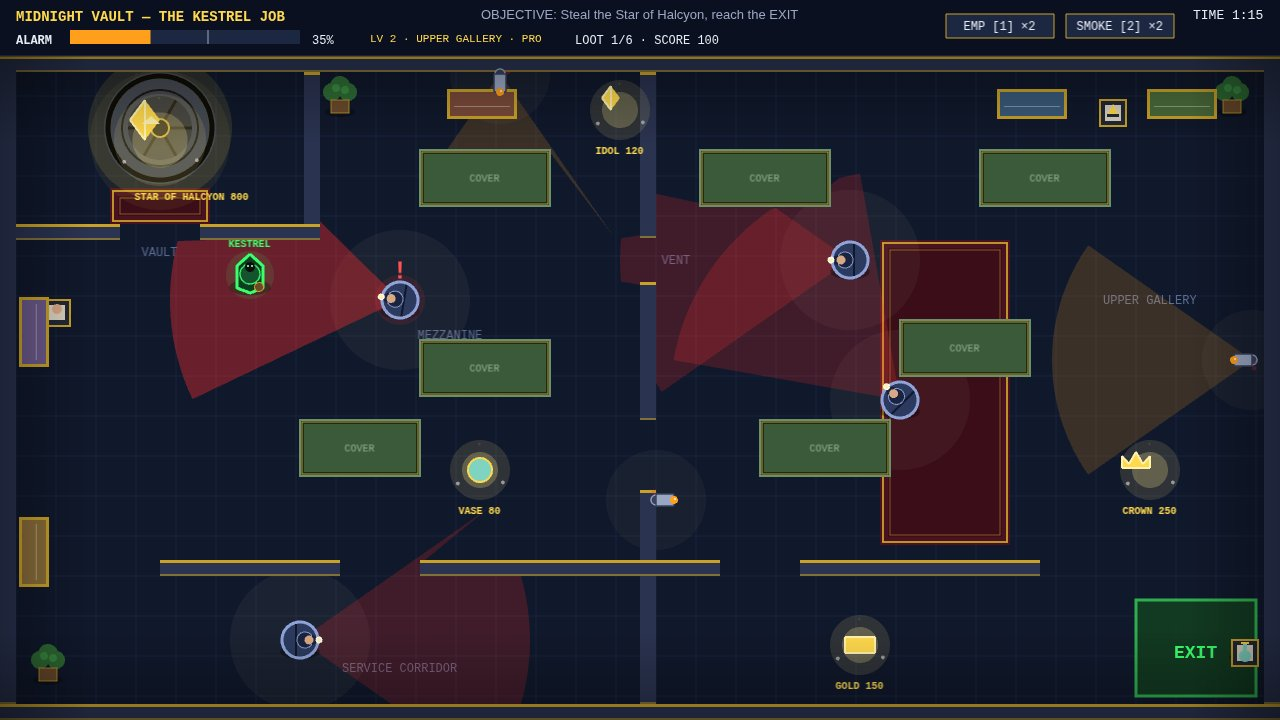
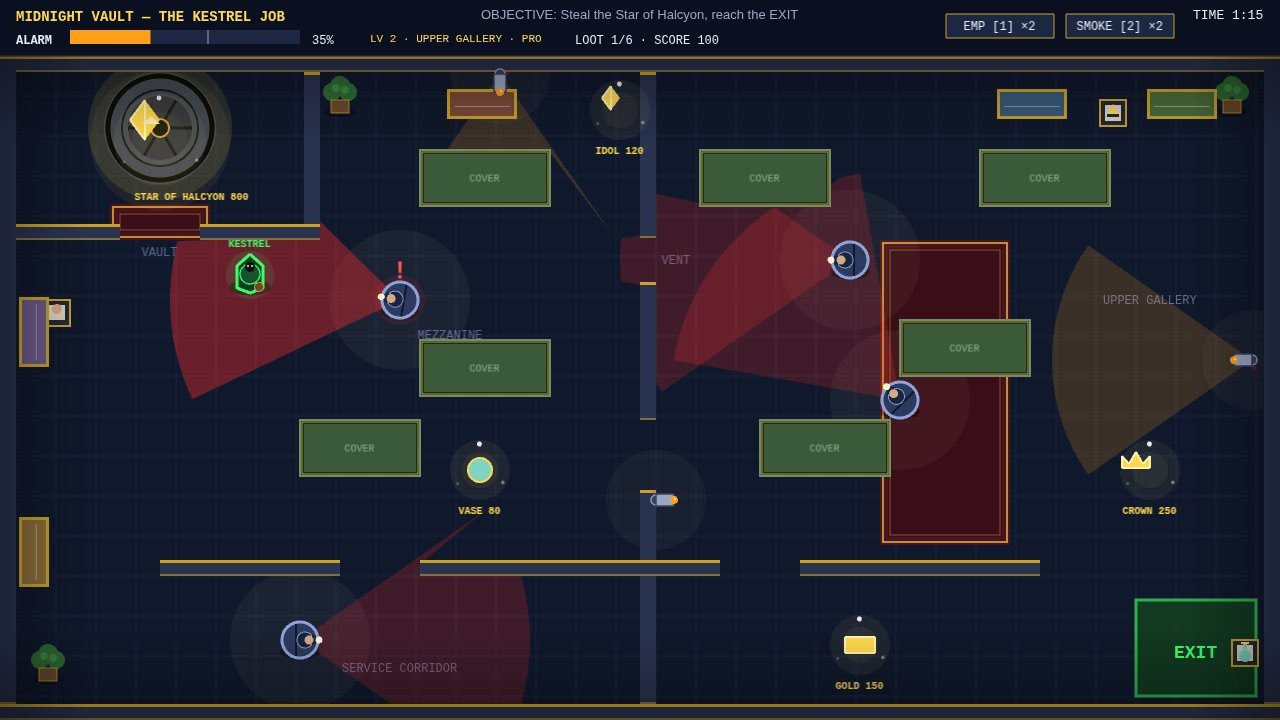
Move vault carpets down so the STAR/DIAMOND labels clear their frames
The L2 vault carpet sat at y 188, touching the STAR OF HALCYON 800
label (y 190-200) in the approach shot. Both carpets move to y 204:
the labels sit clean above the gold frame, and the carpet tail now
shows through the vault door gap, which reads naturally. No gameplay,
balance, or cover-composition change. Screenshots re-shot.

Campaign proven winnable on PRO by trajectory-gated autopilot
(playthrough3.py, outside this repo): L1 won peak alarm 70 in 223 s,
L2 won peak alarm 37 in 226 s — no tuning needed.

diff --git a/game/src/levels.js b/game/src/levels.js
@@ -42,7 +42,7 @@ export const LEVEL = {
   // potted plants in the corners, and the vault's round steel door.
   carpets: [
     { x: 270, y: 240, w: 130, h: 305 }, // main-hall runner
-    { x: 1070, y: 188, w: 100, h: 36 }, // vault runner, in front of the door
+    { x: 1070, y: 204, w: 100, h: 36 }, // vault runner, in front of the door — starts below the DIAMOND 500 label (y 190..200) so the label never touches its gold frame; the runner's tail shows through the door gap (walls are drawn above it)
   ],
   paintings: [
     { x: 150, y: 92, w: 64, h: 24, hue: 0x7a4a3a },
@@ -159,7 +159,7 @@ export const LEVEL_2 = {
   ],
   carpets: [
     { x: 880, y: 240, w: 130, h: 305 }, // east-hall runner
-    { x: 110, y: 188, w: 100, h: 36 }, // vault runner, in front of the door
+    { x: 110, y: 204, w: 100, h: 36 }, // vault runner, in front of the door — starts below the STAR OF HALCYON 800 label (y 190..200) so the label never touches its gold frame; the runner's tail shows through the door gap (walls are drawn above it)
   ],
   paintings: [
     { x: 450, y: 92, w: 64, h: 24, hue: 0x7a4a3a },
